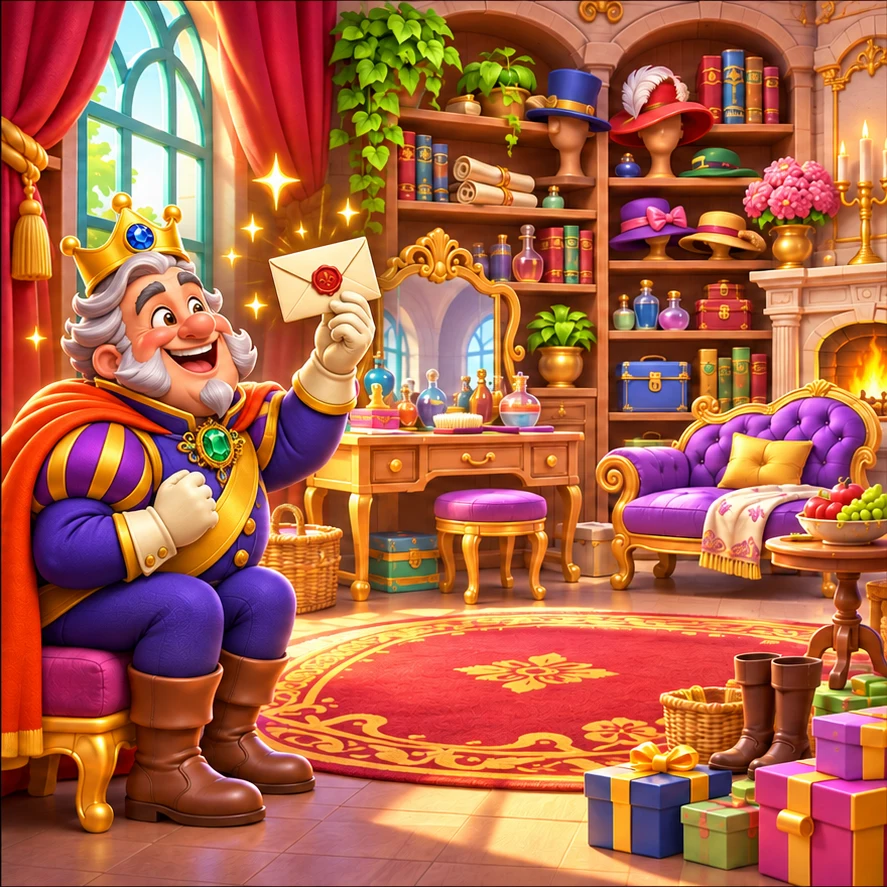
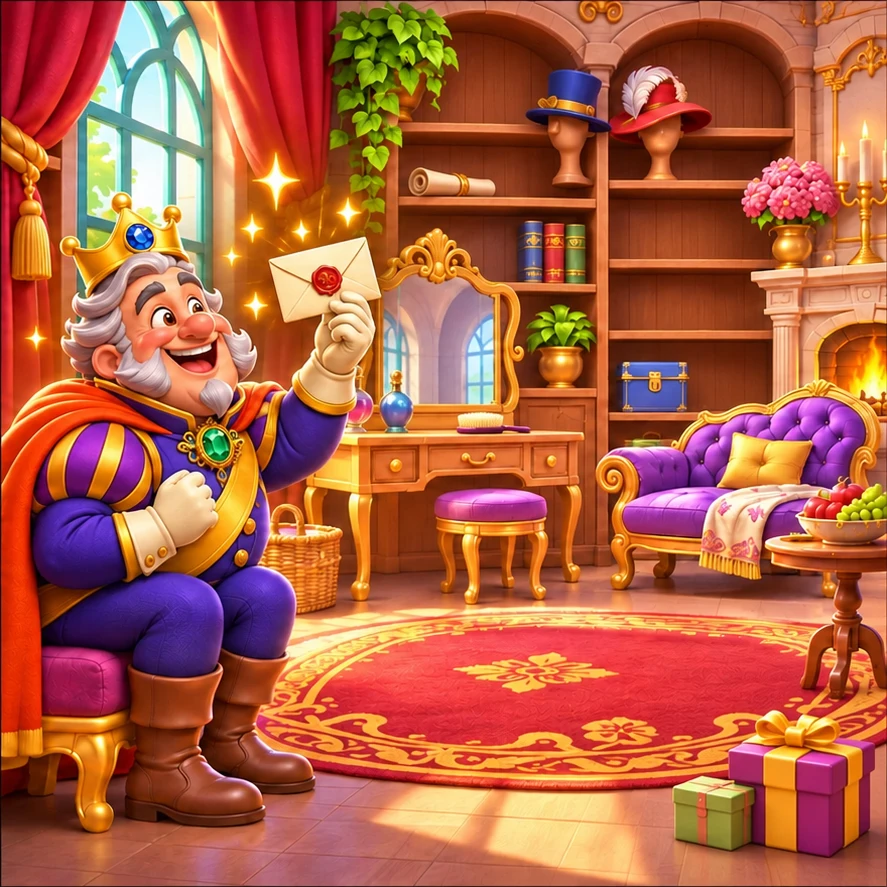
Правки

diff --git a/docs/search/index.html b/docs/search/index.html
@@ -6,11 +6,11 @@
 <h1>Find the Royal Things</h1>
 <div class="stage search">
 <div class="field" aria-label="Royal dressing room">
-<button class="object" style="--x:65%;--y:14%;--r:-10deg;--art:75%" aria-label="Crown"><img src="../assets/crown.webp" alt=""></button>
-<button class="object" style="--x:86%;--y:64%;--r:22deg;--art:66%" aria-label="Glove"><img src="../assets/glove.webp" alt=""></button>
-<button class="object" style="--x:52%;--y:46%;--r:13deg;--art:50%" aria-label="Brooch"><img src="../assets/brooch.webp" alt=""></button>
-<button class="object" style="--x:84%;--y:85%;--r:-14deg;--art:65%" aria-label="Invitation"><img src="../assets/invitation.webp" alt=""></button>
-<div class="sigh" aria-hidden="true" style="--mouth-x:31%;--mouth-y:45%"></div>
+<button class="object" style="--x:77%;--y:26.5%;--r:0deg;--art:75%" aria-label="Crown"><img src="../assets/crown.webp" alt=""></button>
+<button class="object" style="--x:78%;--y:55.5%;--r:35deg;--art:66%" aria-label="Glove"><img src="../assets/glove.webp" alt=""></button>
+<button class="object" style="--x:47.5%;--y:25%;--r:13deg;--art:50%" aria-label="Brooch"><img src="../assets/brooch.webp" alt=""></button>
+<button class="object" style="--x:86%;--y:89%;--r:-14deg;--art:65%" aria-label="Invitation"><img src="../assets/invitation.webp" alt=""></button>
+<div class="sigh" aria-hidden="true" style="--mouth-x:30%;--mouth-y:46%"></div>
 <div class="reward" role="img" aria-label="The smiling king is dressed for the ball" hidden></div>
 </div>
 <div class="tray" aria-label="Things to find">

diff --git a/docs/assets/game.js b/docs/assets/game.js
@@ -34,7 +34,6 @@ let moves;
 const tiles = isPortrait ? solved.slice(0, empty).map((value) => {
   const tile = document.createElement('button');
   tile.className = 'tile';
-  tile.setAttribute('aria-label', `Move portrait tile ${value + 1}`);
   tile.style.backgroundPosition = `${(value % side) * 100 / (side - 1)}% ${Math.floor(value / side) * 100 / (side - 1)}%`;
   tile.onclick = () => slide(value);
   field.append(tile);
@@ -58,6 +57,9 @@ function drawPortrait() {
     tile.style.left = `${index % side * 100 / side}%`;
     tile.style.top = `${Math.floor(index / side) * 100 / side}%`;
     tile.classList.toggle('hint', index === hint);
+    const showTapHint = active && moves === 0 && index === hint;
+    tile.classList.toggle('tap-hint', showTapHint);
+    tile.setAttribute('aria-label', showTapHint ? 'Tap to move' : `Move portrait tile ${value + 1}`);
     tile.tabIndex = adjacent(index) && (hint === undefined || hint === index) ? 0 : -1;
   });
 }
@@ -151,6 +153,7 @@ start.onclick = () => {
   reset.hidden = false;
   field.inert = false;
   if (isPortrait) {
+    drawPortrait();
     statusLine.textContent = 'Tap the glowing tile.';
   } else {
     statusLine.textContent = '0 of 4 found';

diff --git a/docs/assets/style.css b/docs/assets/style.css
@@ -52,3 +52,22 @@ button { cursor:pointer }
   7% { opacity:.65 }
   24%,99% { opacity:0; transform:translate(85%,-45%) scale(1.2) }
 }
+
+.tile.tap-hint::after {
+  content:'Tap to move';
+  position:absolute;
+  bottom:7%;
+  left:50%;
+  transform:translateX(-50%);
+  width:max-content;
+  max-width:95%;
+  padding:4px 7px;
+  border:1px solid #f7ca68;
+  border-radius:8px;
+  background:#2a194e;
+  color:#fff8dc;
+  font-size:clamp(11px,3.2vw,14px);
+  font-weight:800;
+  line-height:1.15;
+  pointer-events:none;
+}
